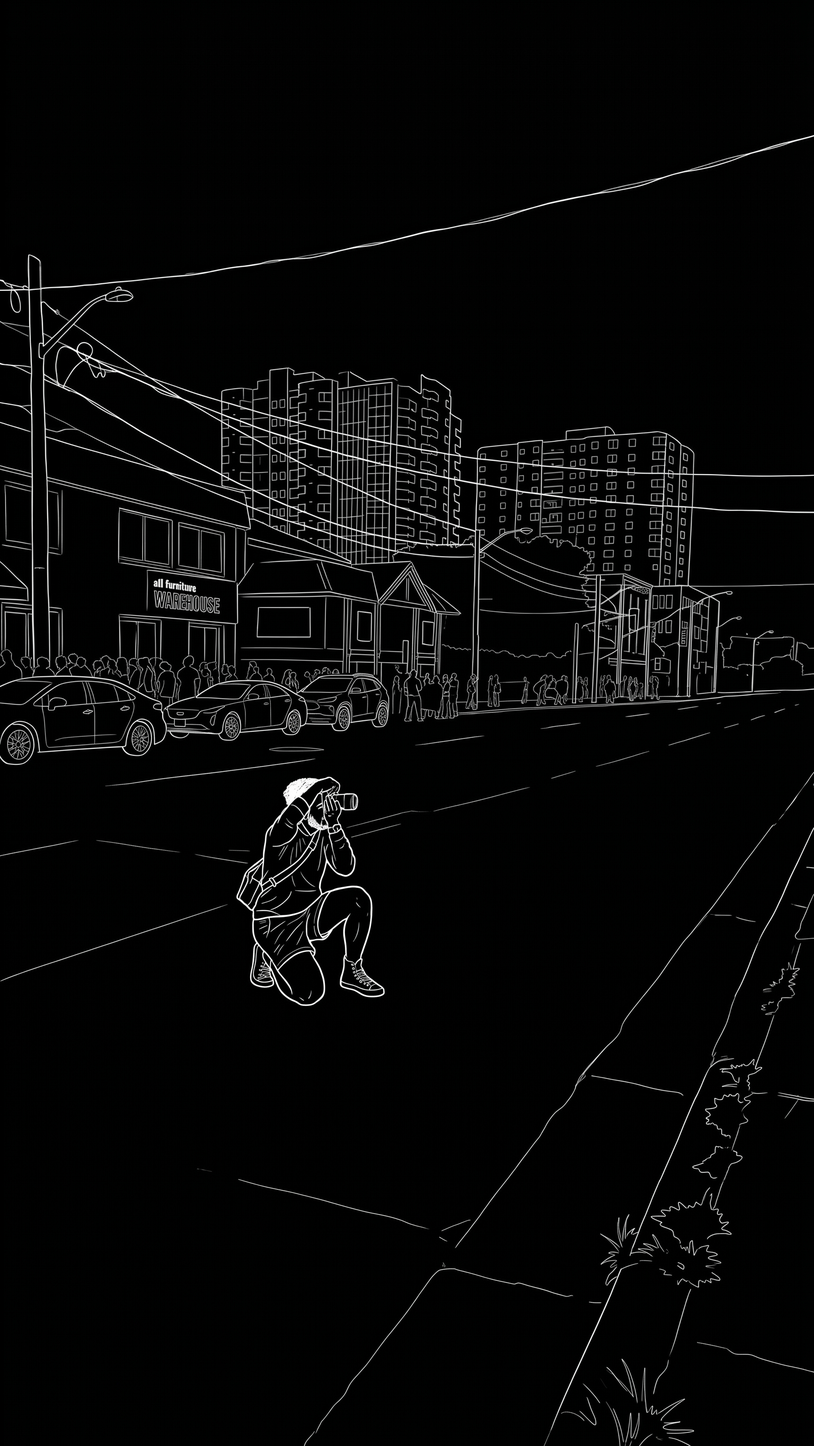
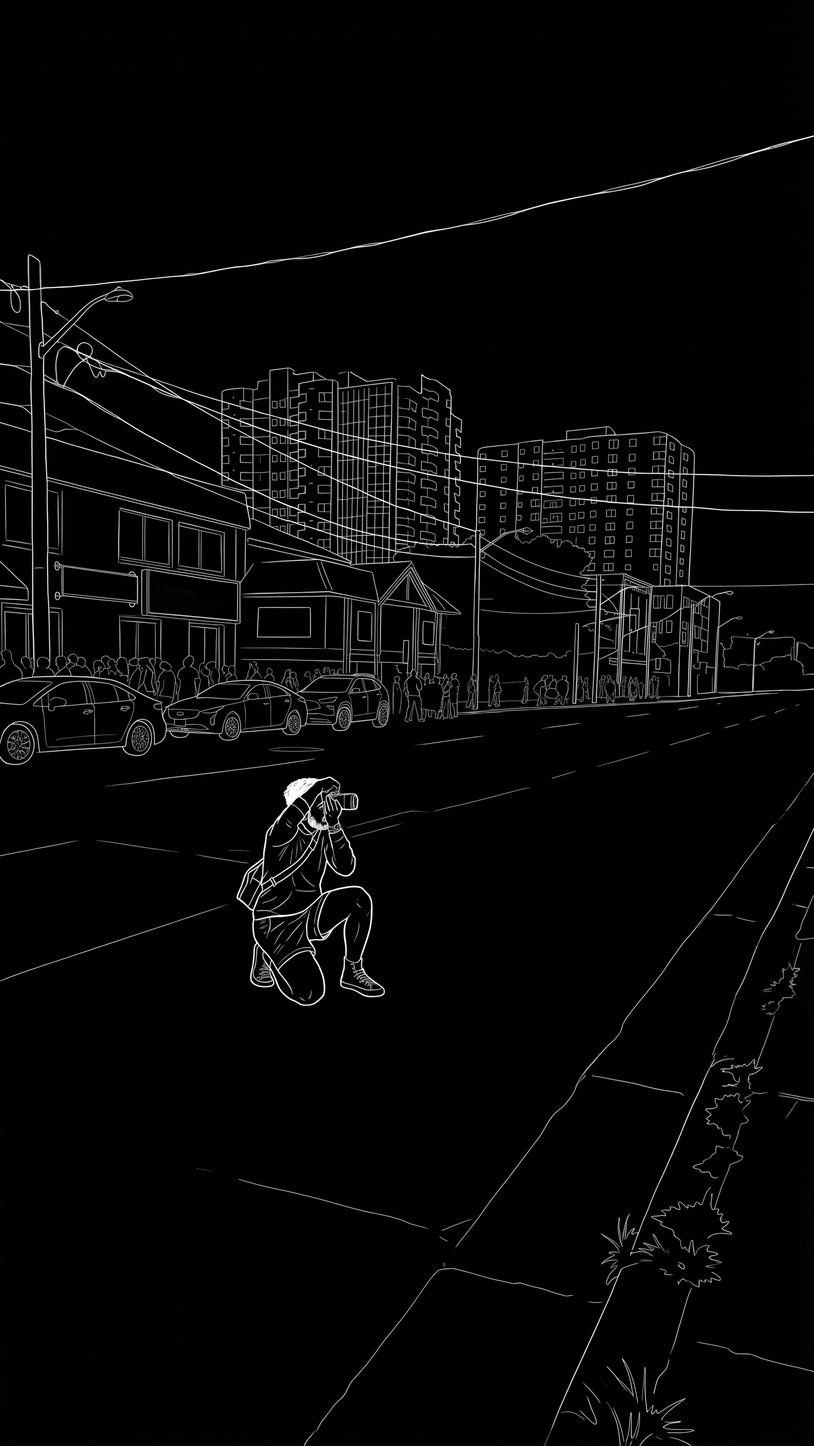
header updated

diff --git a/albums.js b/albums.js
@@ -97,13 +97,13 @@ const ALBUMS = [
     slug: "iran", title: "Iran",
     location: "Iran", mood: "saffron",
     caption: "Home.",
-    files: ["Iran3","Iran4","Iran7","Iran6","Iran8","Iran9","Iran10","Iran16","Iran11","Iran12","Iran13","Iran14","Iran15","Iran17"]
+    files: ["Iran2", "Iran3","Iran4","Iran7","Iran6","Iran8","Iran9","Iran10","Iran16","Iran11","Iran12","Iran13","Iran14","Iran15","Iran17","Iran1"]
   },
   {
     slug: "istanbul", title: "Istanbul",
     location: "Türkiye", mood: "lagoon",
     caption: "Lovely Istanbul.",
-    files: ["Istanbul1","Istanbul4","Istanbul3","Istanbul5","Istanbul6","Istanbul7","Istanbul8","Istanbul9","Istanbul10","Istanbul11","Istanbul12","Istanbul13","Istanbul14","Istanbul15","Istanbul16","Istanbul17","Istanbul18","Istanbul19","Istanbul20","Istanbul21","Istanbul22","Istanbul23","Istanbul24"]
+    files: ["Istanbul1","Istanbul4","Istanbul2","Istanbul3","Istanbul5","Istanbul6","Istanbul7","Istanbul8","Istanbul9","Istanbul10","Istanbul11","Istanbul12","Istanbul13","Istanbul14","Istanbul15","Istanbul16","Istanbul17","Istanbul18","Istanbul19","Istanbul20","Istanbul21","Istanbul22","Istanbul23","Istanbul24"]
   },
   {
     slug: "montreal", title: "Montreal",
